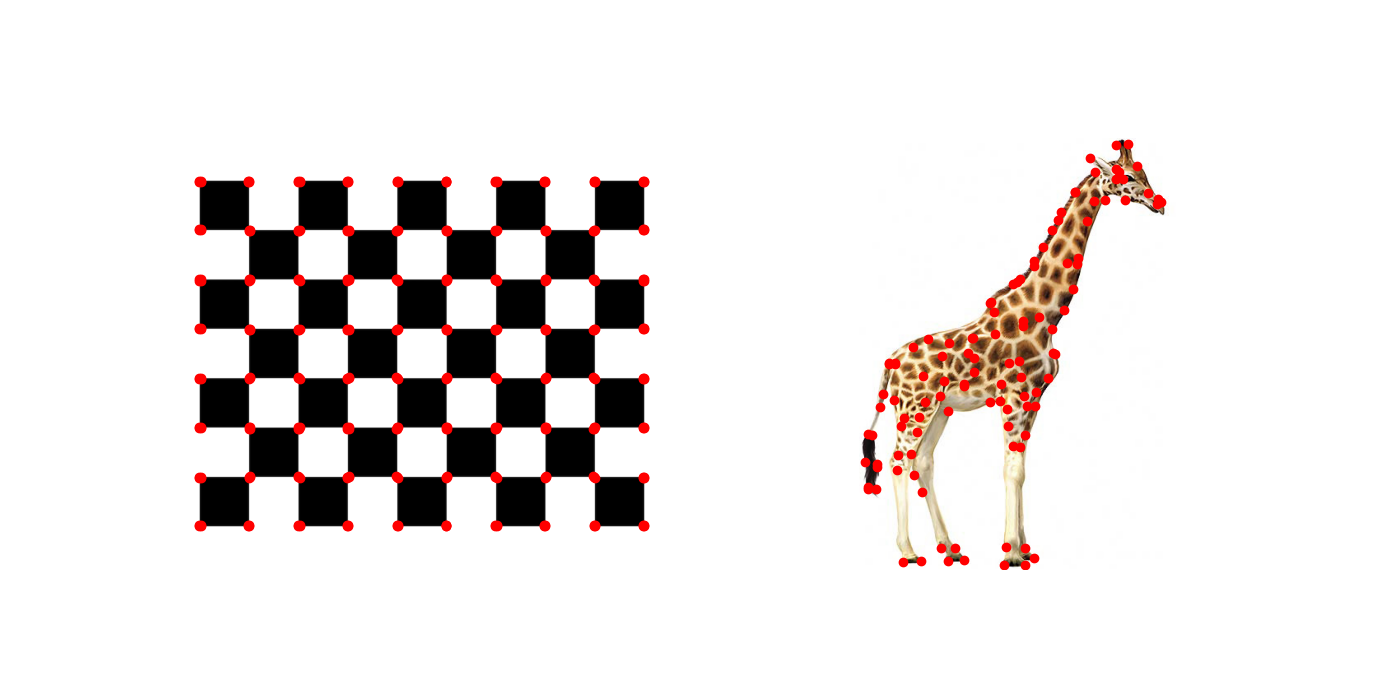
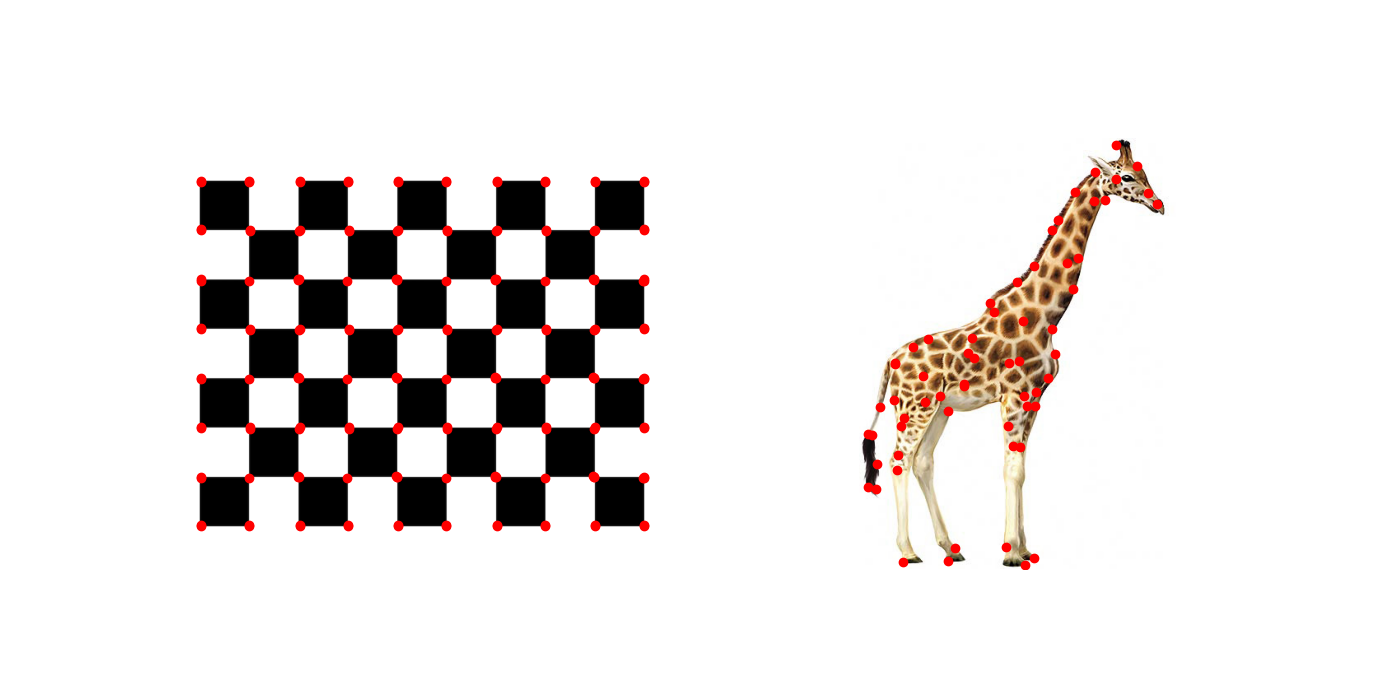
fixed the double corners

diff --git a/harris_corner_detector.py b/harris_corner_detector.py
@@ -1,4 +1,5 @@
 """Harris Corner Detector."""
+from cv2 import sqrt
 import numpy as np
 import cv2
 from scipy import signal
@@ -265,6 +266,26 @@ def our_harris_corner_detector(input_image: np.ndarray, K: float,
     new_image = image_tiles_to_black_and_white_image(new_tiles,h,w)
     output_image = np.zeros(response_image.shape)
     output_image = np.where(new_image > threshold,1,0)
+    idx = np.nonzero(output_image)
+    idx=list( zip(idx[0],idx[1]))
+    i=0
+    count1 = len(idx) 
+    while (i<len(idx)-1):
+        delta = np.sqrt(np.abs(idx[i][0]- idx[i+1][0])^2+ np.abs(idx[i][1]- idx[i+1][1])^2)
+        if delta <=10.1:
+            temp =idx[i] 
+            output_image[idx[i][0],idx[i][1]] = 0
+            i+=2
+        else:
+            i+=1
+    
+    idx = np.nonzero(output_image)
+    idx=list( zip(idx[0],idx[1]))
+    i=0
+    count2 = len(idx)
+
+
+
     return output_image
 
 
